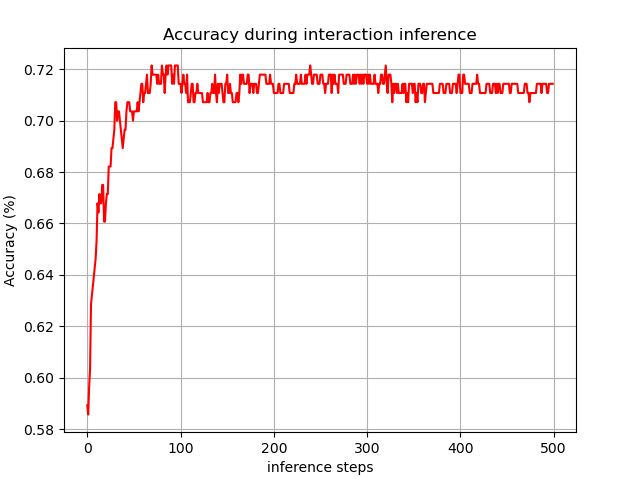
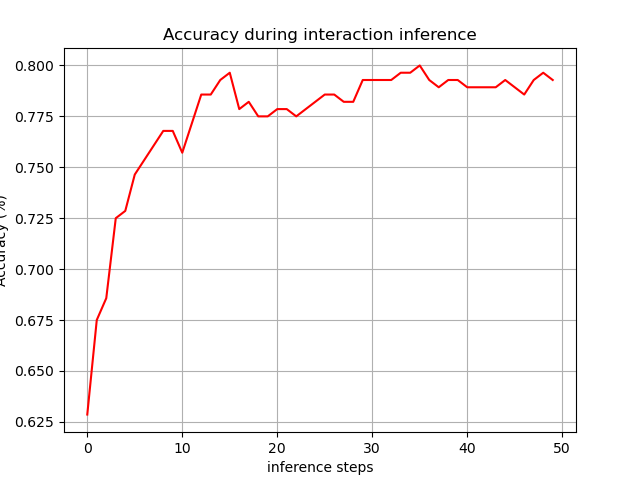
Final: Comparison test loss with true and random labels

diff --git a/Interaction_Inference/interaction_inference.py b/Interaction_Inference/interaction_inference.py
@@ -1,6 +1,7 @@
 import torch
 import sys
 from torch import nn
+import torch.nn.functional as F
 import numpy as np
 import matplotlib.pyplot as plt
 from numpy import random
@@ -28,23 +29,24 @@ class InteractionInference():
     ----------
     model : torch.nn.Module
         Recurrent neural network model which might be pretrained.
-    initial_model_states : torch.Tensor or tuple
-        Initial hidden (and cell) state of the model.
-    opt_accessor : function
-        Function that returns list of tensors to be optimized
     criterion : function
         Criterion for comparison of a list of past predictions and a list of
         observations.
     optimizer : torch.optim.Optimizer
         Optimizer to optimize the unfrozen layers during retrospective inference
+    inference_steps : int
+        Number of repeating steps to perform interaction inference
+    num_dim : int
+        Number of dimensions for each object
+    num_obj : int
+        Number of objects / features
+    teacher_forcing_steps : int
+        Number of timesteps where teacher forcing forward passes are performed
+    teacher_forcing_dropouts : bool
+        Flag indicating whether dropouts are present during teacher forcing forward passes
     reset_optimizer : bool
         If True the optimizer's statistics are reset before each inference.
         If False the optimizer's statistics are kept across inferences.
-    
-    # context_handler : function
-    #     Function that is applied to the context after each optimization,
-    #     e.g. can be used to keep context in certain range.
-
     """
 
     def __init__(
@@ -55,10 +57,9 @@ class InteractionInference():
             inference_steps,
             num_dim,
             num_obj,
-            timesteps,
             teacher_forcing_steps,
             teacher_forcing_dropouts,
-            reset_optimizer=True, 
+            reset_optimizer=False
         ):
         self.device = torch.device('cuda:0' if torch.cuda.is_available() else 'cpu')
         self.model = model
@@ -73,7 +74,6 @@ class InteractionInference():
         self.num_dim = num_dim
         self.num_obj = num_obj
 
-        self.timesteps = timesteps - 1 # input und label um einen step versetzt
         self.teacher_forcing_steps = teacher_forcing_steps
         self.teacher_forcing_dropouts = teacher_forcing_dropouts
         self.dropout_chance = 0.0
@@ -85,52 +85,10 @@ class InteractionInference():
         #     s.requires_grad_()
         
         # params_to_train = ['event_codes.weight', 'event_codes.bias']
-        # for name, param in self.model.named_parameters():
-        #     # Set True only for params in the list 'params_to_train'
-        #     param.requires_grad = name in params_to_train
+        for name, param in self.model.named_parameters():
+            # Set True only for params in the list 'params_to_train'
+            param.requires_grad = False # name in params_to_train
 
-
-    def predict(self, seq, interaction):
-        """
-        Predict from the past.
-
-        Predict observations given past inputs as well as an initial hidden
-        state and a context.
-
-        Parameters
-        ----------
-        seq   : torch.Tensor
-            interaction sequence
-        interaction : torch.Tensor [1 x batchsize]
-            interaction label indicating event code
-        state : torch.Tensor or tuple
-            Initial hidden (and cell) state of the network.
-
-        Returns
-        -------
-        outputs : tensor
-            Entire predicted interaction sequence
-        states : tensor
-            Last hidden state of the network
-        """
-        
-        seq_len, batch_size, _ = seq.size()
-
-        state = self.model.init_hidden(batch_size=batch_size)
-        outs = []
-        self.reset_dropout_chance()
-
-        for j in range(seq_len):
-            _, state, outs = self.forward_pass(seq, interaction, state, outs, j)
-                    
-        output = torch.stack(outs).to(self.device)
-        
-        # hier noch irgendwie output ausm softmax rauslesen
-        # und als predicted interaction_code_inference abspreichern und auch returnen
-        event_inference = self.model.event_code
-        
-        return output, state, event_inference
-    
 
     def forward_pass(self, seq, interaction, state, outs, j):
             
@@ -189,6 +147,47 @@ class InteractionInference():
         return torch.stack([dis_a1_a2, dis_a1_b, dis_b_a2], dim = 1) # shape (batchsize x 3)
     
 
+    def predict(self, seq, interaction):
+        """
+        Predict from the past.
+
+        Predict observations given past inputs as well as an initial hidden
+        state and a context.
+
+        Parameters
+        ----------
+        seq   : torch.Tensor
+            interaction sequence
+        interaction : torch.Tensor [1 x batchsize]
+            interaction label indicating event code
+        state : torch.Tensor or tuple
+            Initial hidden (and cell) state of the network.
+
+        Returns
+        -------
+        outputs : tensor
+            Entire predicted interaction sequence
+        states : tensor
+            Last hidden state of the network
+        """
+        
+        seq_len, batch_size, _ = seq.size()
+
+        state = self.model.init_hidden(batch_size=batch_size)
+        outs = []
+        self.reset_dropout_chance()
+
+        for j in range(seq_len):
+            _, state, outs = self.forward_pass(seq, interaction, state, outs, j)
+                    
+        output = torch.stack(outs).to(self.device)
+        
+        # hier noch irgendwie output ausm softmax rauslesen
+        # und als predicted interaction_code_inference abspreichern und auch returnen
+        event_inference = self.model.event_code
+        
+        return output, state, event_inference
+    
 
     def infer_interactions(self, seq, label, interaction):
         """
@@ -350,7 +349,7 @@ def main():
     teacher_forcing_steps = 60
     teacher_forcing_dropouts = True
 
-    inference_steps = 500
+    inference_steps = 50
 
     mse_loss = nn.MSELoss()
     huber_loss = nn.HuberLoss()
@@ -383,7 +382,7 @@ def main():
 
     optimizer = AdamW(
         params=params,
-        lr=0.005,
+        lr=0.05,
     )
 
     inference = InteractionInference(
@@ -393,7 +392,6 @@ def main():
         inference_steps=inference_steps,
         num_dim=n_dim,
         num_obj=n_features,
-        timesteps=timesteps,
         teacher_forcing_steps=teacher_forcing_steps,
         teacher_forcing_dropouts=teacher_forcing_dropouts,
     )
@@ -409,6 +407,7 @@ def main():
     
     with torch.no_grad():
         print(int_inference[:5])
+        print(torch.round(F.softmax(int_inference[:5] * 10, dim=1), decimals=2))
         print(interaction[:5])
         
         inferece_pred = torch.argmax(int_inference, dim=1)

diff --git a/CoreLSTM/core_lstm_utils.py b/CoreLSTM/core_lstm_utils.py
@@ -1,0 +1,102 @@
+import torch
+import numpy as np
+from numpy import random
+from torch.nn import PairwiseDistance
+
+
+class LSTM_Utils():
+    
+    """
+        Parent class for common lstm operations
+        
+    """
+    
+    def __init__(
+        self,
+        batch_size, 
+        hidden_num,
+        teacher_forcing_steps,
+        teacher_forcing_dropouts, 
+        layer_norm, 
+        num_dim, 
+        num_feat,
+        num_independent_feat,
+        num_interactions,
+        num_output,
+    ):
+        
+        self.device = torch.device('cuda:0' if torch.cuda.is_available() else 'cpu') # 
+        print(f'DEVICE TrainM: {self.device}')
+        
+        self.batch_size = batch_size
+        self.num_dim = num_dim
+        self.num_feat = num_feat
+        self.num_independent_feat = num_independent_feat
+        self.num_interactions = num_interactions
+        self.num_output = num_output
+        self.hidden_num = hidden_num
+        self.layer_norm = layer_norm
+        
+        self.teacher_forcing_steps = teacher_forcing_steps
+        self.teacher_forcing_dropouts = teacher_forcing_dropouts
+        self.dropout_chance = 0.0
+        # random.seed(0)
+        self.random_thresholds = random.random_sample((teacher_forcing_steps,))
+        
+    
+    def forward_pass(self, seq, interaction, state, outs, j):
+            
+        if self.teacher_forcing_dropouts and j < self.teacher_forcing_steps:
+            not_a_dropout = self.random_thresholds[j] > self.dropout_chance
+            self.dropout_chance += 1 / self.teacher_forcing_steps
+
+        if (
+            j < self.teacher_forcing_steps           # -> Ignore dropout functionality
+                and not self.teacher_forcing_dropouts  
+            or j < self.teacher_forcing_steps        # -> Use tf until tf_steps is reached
+                and not_a_dropout                    # and the current time step is not a dropout
+        ):
+            _input = seq[j, :, :]
+            output, state = self.model.forward(_input, interaction, state)
+        else:
+            # concat motor forces and distances to previous output
+            output = self.closed_loop_input(seq, j, outs[-1])
+            # Closed loop lstm forward pass without teacherforcing
+            output, state = self.model.forward(output, interaction, state)
+                    
+        outs.append(output)
+        
+        return output, state, outs
+
+    
+    def reset_dropout_chance(self):
+        self.dropout_chance = 0.0
+        
+
+    def closed_loop_input(self, seq, j, output):
+        distances = self.calculate_new_distances(output)
+        motor_column = self.num_dim*self.num_feat
+        motor_force = seq[j, :, motor_column:motor_column+2].squeeze()
+        return torch.cat([output, motor_force, distances], dim=1)
+
+
+    def calculate_new_distances(self, out: torch.Tensor):
+        # shape out: [seq_len=1, batch_size, features]
+        t = out.squeeze()
+        # a1, a2, b = t[:, [0,1]], t[:, [6,7]], t[:, [12,13]]
+        a1, a2, b = (
+            t[:, [2*i + i*(self.num_dim-2), 2*(i+1) + i*(self.num_dim-2)]] 
+            for i in range(self.num_feat)
+        )
+        
+        # abstrahieren für n_obj!=3 mit [a1, a2, b, ...] als list und:
+        # combs = it.combinations(tensors, 2)
+        # dann loop über combs und dist anwenden
+        
+        dist = PairwiseDistance(p=2)
+        dis_a1_a2 = dist(a1, a2)
+        dis_a1_b  = dist(a1, b)
+        dis_b_a2  = dist(b, a2)
+        
+        return torch.stack([dis_a1_a2, dis_a1_b, dis_b_a2], dim = 1) # shape (batchsize x 3)
+    

diff --git a/CoreLSTM/test_interactions.py b/CoreLSTM/test_interactions.py
@@ -14,7 +14,7 @@ from Data_Preparation.interaction_dataset import TimeSeriesDataset
 from CoreLSTM.test_core_lstm import LSTM_Tester
 
 
-def main(render=True):
+def main(render=False):
     
     interactions = ['A', 'B', 'C', 'D']
     interactions_num = [0, 1, 2, 3]
@@ -121,12 +121,11 @@ def main(render=True):
     print(np.sum(obj_losses, axis=None))
     print(np.sum(type_losses, axis=None))
     
-    test_loss_path = f"CoreLSTM/testing_predictions/test_loss/{model_name}_false_labels"
-    obj_loss_path = f"CoreLSTM/testing_predictions/test_loss/{model_name}_false_labels"
-    type_loss_path = f"CoreLSTM/testing_predictions/test_loss/{model_name}_false_labels"
+    test_loss_path = f"CoreLSTM/testing_predictions/test_loss/{model_name}"
+    test_loss_path += '_false_labels' if random_labels else '_true_labels'
     tester.plot_losses_steps(losses, test_loss_path)
-    tester.plot_losses_objects(obj_losses, obj_loss_path)
-    tester.plot_losses_types(type_losses, type_loss_path)
+    tester.plot_losses_objects(obj_losses, test_loss_path)
+    tester.plot_losses_types(type_losses, test_loss_path)
 
     if render:
         # Check prediction for one example with renderer

diff --git a/CoreLSTM/test_core_lstm.py b/CoreLSTM/test_core_lstm.py
@@ -328,7 +328,7 @@ class LSTM_Tester():
         # axes.set_yscale('log')
         axes.set_title('MSELoss for each test prediction time step')
         
-        plt.savefig(f'{plot_path}_losses.png')
+        plt.savefig(f'{plot_path}_losses.png', dpi=300)
         plt.show()
     
     
@@ -344,7 +344,7 @@ class LSTM_Tester():
         # axes.set_yscale('log')
         axes.set_title('MSELoss for each test prediction time step')
         
-        plt.savefig(f'{plot_path}_obj_losses.png')
+        plt.savefig(f'{plot_path}_obj_losses.png', dpi=300)
         plt.show()
     
         
@@ -360,6 +360,6 @@ class LSTM_Tester():
         # axes.set_yscale('log')
         axes.set_title('MSELoss for each test prediction time step')
         
-        plt.savefig(f'{plot_path}_type_losses.png')
+        plt.savefig(f'{plot_path}_type_losses.png', dpi=300)
         plt.show()
 
